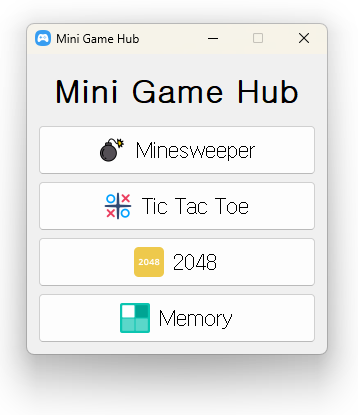
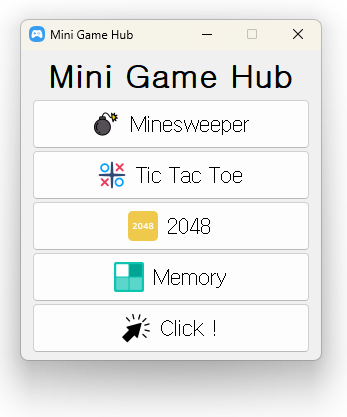
edit click

Changed region(s): [[0.0576, 0.0289, 0.951, 0.8675], [0.6628, 0.1446, 0.8646, 0.2602]]

diff --git a/click.py b/click.py
@@ -133,14 +133,13 @@ class Click_Window(QWidget):
             score = read(self.game).rstrip('\n')
             msgBox = QMessageBox(self)
             msgBox.setWindowTitle("Score")
-            msgBox.setText(score)
+            msgBox.setText(f'{score}ms')
             msgBox.exec_()
             self.switch_bg()
         
         if self.count == int(self.size_select.currentText()):
             average_score = read(self.game).rstrip('\n')
-            self.gameEnd_dialog('Complete', average_score)
-
+            self.gameEnd_dialog('Complete', f'Average {average_score}ms')
 
     def gameEnd_dialog(self, title, st):
         msgBox = QMessageBox(self)

diff --git a/README.md b/README.md
@@ -1,5 +1,5 @@
 # <img src="https://github.com/kookjd7759/Mini-game-hub/blob/main/image/main_icon.png?raw=true" width="30" /> Mini Game Hub
-**Mini Game Hub** is a compact collection of mini-games, featuring 4 game. While most of the games in the hub are well-known game that have been released before, I have personally implemented all the features for each one.
+**Mini Game Hub** is a compact collection of mini-games, featuring 5 game. While most of the games in the hub are well-known game that have been released before, I have personally implemented all the features for each one.
 
 All games in Mini Game Hub efficiently utilize inter-process communication (IPC) to **provide a graphical user interface (GUI)**.
 #### Development environment
@@ -61,3 +61,8 @@ The game ends if three blocks are clicked incorrectly in a single level. The lev
  - level 8 : 10x10 grid with 38 blocks
  
  Each level is played three times, and with each round, one additional block is added to the sequence that must be matched.
+
+### 5. Click !
+**Click !** is a reaction time test game where the goal is to quickly turn the button back to "off" when it changes to the "on" state. It offers options for 3, 5, or 10 attempts, and measures the average reaction time for each attempt. The game ends immediately if the button is clicked when it is not in the "on" state, requiring fast and precise responses.
+
+<img src="https://github.com/kookjd7759/Mini-game-hub/blob/main/image/screenShot/click.gif?raw=true" width="350" />
